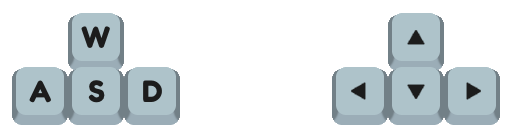
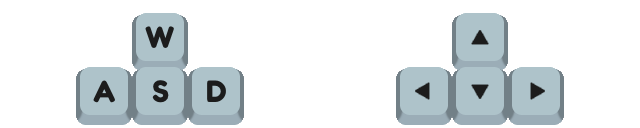
Add instructions scene

diff --git a/src/scenes/instructions/ui.rs b/src/scenes/instructions/ui.rs
@@ -1,0 +1,146 @@
+use bevy::prelude::*;
+
+use crate::{
+    assets::{AssetsHandles, Colors},
+    ui,
+};
+
+use super::CleanupMarker;
+
+pub fn spawn(commands: &mut Commands, assets: &AssetsHandles) {
+    let overlay = ui::Overlay::new();
+
+    let housing_a = ui::Housing::new(Val::Percent(100.0), Val::Percent(10.0));
+    let housing_b = ui::Housing::new(Val::Percent(100.0), Val::Percent(20.0));
+    let housing_c = ui::Housing::new(Val::Percent(100.0), Val::Percent(20.0));
+    let housing_d = ui::Housing::new(Val::Percent(100.0), Val::Percent(20.0));
+    let housing_e = ui::Housing::new(Val::Percent(100.0), Val::Percent(20.0));
+    let housing_f = ui::Housing::new(Val::Percent(100.0), Val::Percent(10.0));
+
+    let how_to_play = ui::EmbossedText::new(
+        "How to Play".to_string(),
+        2.0,
+        TextStyle {
+            font_size: 44.0,
+            color: Colors::PRIMARY,
+            font: assets.fonts.fredoka.clone(),
+        },
+    );
+
+    let press = ui::SimpleText::new(
+        "Press".to_string(),
+        TextStyle {
+            font_size: 44.0,
+            color: Colors::LIGHT,
+            font: assets.fonts.fredoka.clone(),
+        },
+    );
+
+    let or = ui::SimpleText::new(
+        "or".to_string(),
+        TextStyle {
+            font_size: 44.0,
+            color: Colors::LIGHT,
+            font: assets.fonts.fredoka.clone(),
+        },
+    );
+
+    let to_move = ui::SimpleText::new(
+        "to move        ,".to_string(),
+        TextStyle {
+            font_size: 44.0,
+            color: Colors::LIGHT,
+            font: assets.fonts.fredoka.clone(),
+        },
+    );
+
+    let to_win = ui::SimpleText::new(
+        "pushing all         into         to win!".to_string(),
+        TextStyle {
+            font_size: 44.0,
+            color: Colors::LIGHT,
+            font: assets.fonts.fredoka.clone(),
+        },
+    );
+
+    let press_space = ui::EmbossedText::new(
+        "Press [SPACE] to continue".to_string(),
+        2.0,
+        TextStyle {
+            font_size: 24.0,
+            color: Colors::PRIMARY,
+            font: assets.fonts.fredoka.clone(),
+        },
+    );
+
+    assets.images.spawn_background(commands, CleanupMarker);
+
+    overlay.spawn(commands, CleanupMarker, |parent| {
+        housing_a.spawn(parent, |parent| {
+            how_to_play.spawn(parent);
+        });
+        housing_b.spawn(parent, |parent| {
+            press.spawn(parent);
+        });
+        housing_c.spawn(parent, |parent| {
+            parent.spawn_bundle(NodeBundle {
+                style: Style {
+                    position_type: PositionType::Absolute,
+                    size: Size::new(Val::Percent(100.0), Val::Percent(100.0)),
+                    ..Default::default()
+                },
+                image: assets.images.controls.clone().into(),
+                ..Default::default()
+            });
+            or.spawn(parent);
+        });
+        housing_d.spawn(parent, |parent| {
+            parent.spawn_bundle(NodeBundle {
+                style: Style {
+                    position_type: PositionType::Absolute,
+                    position: Rect {
+                        left: Val::Percent(56.0),
+                        ..Default::default()
+                    },
+                    size: Size::new(Val::Px(64.0), Val::Px(64.0)),
+                    ..Default::default()
+                },
+                image: assets.images.player_idle.clone().into(),
+                ..Default::default()
+            });
+            to_move.spawn(parent);
+        });
+        housing_e.spawn(parent, |parent| {
+            parent.spawn_bundle(NodeBundle {
+                style: Style {
+                    position_type: PositionType::Absolute,
+                    position: Rect {
+                        left: Val::Percent(39.0),
+                        ..Default::default()
+                    },
+                    size: Size::new(Val::Px(64.0), Val::Px(64.0)),
+                    ..Default::default()
+                },
+                image: assets.images.entity_box.clone().into(),
+                ..Default::default()
+            });
+            parent.spawn_bundle(NodeBundle {
+                style: Style {
+                    position_type: PositionType::Absolute,
+                    position: Rect {
+                        left: Val::Percent(63.0),
+                        ..Default::default()
+                    },
+                    size: Size::new(Val::Px(64.0), Val::Px(64.0)),
+                    ..Default::default()
+                },
+                image: assets.images.entity_zone.clone().into(),
+                ..Default::default()
+            });
+            to_win.spawn(parent);
+        });
+        housing_f.spawn(parent, |parent| {
+            press_space.spawn(parent);
+        });
+    });
+}

diff --git a/src/scenes/title/mod.rs b/src/scenes/title/mod.rs
@@ -4,7 +4,7 @@ use bevy::prelude::*;
 use bevy_kira_audio::Audio;
 
 use crate::{
-    assets::LoadedHandles,
+    assets::{LoadedHandles, SaveFile},
     state::GameState,
     ui::{ButtonKind, ButtonMarker},
 };
@@ -29,13 +29,18 @@ fn setup(mut commands: Commands, loaded_handles: Res<LoadedHandles>, audio: Res<
 
 fn interactions(
     mut state: ResMut<State<GameState>>,
+    save_file: Res<SaveFile>,
     query: Query<(&ButtonMarker, &Interaction), (Changed<Interaction>, With<Button>)>,
 ) {
     if let Ok((button, interaction)) = query.get_single() {
         match interaction {
             Interaction::Clicked => match button.kind {
                 ButtonKind::Play => {
-                    state.set(GameState::Selection).unwrap();
+                    if save_file.no_records() {
+                        state.set(GameState::Instructions).unwrap();
+                    } else {
+                        state.set(GameState::Selection).unwrap();
+                    }
                 }
                 ButtonKind::Options => { /* TODO: Set state to show options scene */ }
                 ButtonKind::Quit => { /* TODO: Set state to quit game */ }
@@ -49,11 +54,14 @@ fn interactions(
 
 fn cleanup(
     mut commands: Commands,
-    entities: Query<Entity, With<CleanupMarker>>,
     audio: Res<Audio>,
+    save_file: Res<SaveFile>,
+    entities: Query<Entity, With<CleanupMarker>>,
 ) {
     // TODO: Move this somewhere else
-    audio.stop();
+    if !save_file.no_records() {
+        audio.stop();
+    }
 
     for entity in entities.iter() {
         commands.entity(entity).despawn_recursive();

diff --git a/src/scenes/instructions/mod.rs b/src/scenes/instructions/mod.rs
@@ -1,0 +1,42 @@
+mod ui;
+
+use bevy::prelude::*;
+use bevy_kira_audio::Audio;
+
+use crate::{assets::LoadedHandles, state::GameState};
+
+#[derive(Component)]
+struct CleanupMarker;
+
+pub struct InstructionsPlugin;
+
+impl Plugin for InstructionsPlugin {
+    fn build(&self, app: &mut App) {
+        app.add_system_set(SystemSet::on_enter(GameState::Instructions).with_system(setup))
+            .add_system_set(SystemSet::on_update(GameState::Instructions).with_system(interactions))
+            .add_system_set(SystemSet::on_exit(GameState::Instructions).with_system(cleanup));
+    }
+}
+
+fn setup(mut commands: Commands, loaded_handles: Res<LoadedHandles>) {
+    ui::spawn(&mut commands, &loaded_handles.assets);
+}
+
+fn interactions(mut state: ResMut<State<GameState>>, keyboard: Res<Input<KeyCode>>) {
+    if keyboard.just_pressed(KeyCode::Space) {
+        state.set(GameState::Selection).unwrap();
+    }
+}
+
+fn cleanup(
+    mut commands: Commands,
+    entities: Query<Entity, With<CleanupMarker>>,
+    audio: Res<Audio>,
+) {
+    // TODO: Move this somewhere else
+    audio.stop();
+
+    for entity in entities.iter() {
+        commands.entity(entity).despawn_recursive();
+    }
+}

diff --git a/src/assets.rs b/src/assets.rs
@@ -17,6 +17,8 @@ use crate::{
     state::GameState,
 };
 
+const FIRST_LEVEL_INDEX: usize = 0;
+
 pub struct LoadedHandles {
     pub assets: AssetsHandles,
     pub save_file: SaveFileHandle,
@@ -79,6 +81,14 @@ pub struct SaveFile {
 impl SaveFile {
     pub fn new(level_records: Vec<usize>) -> SaveFile {
         SaveFile { level_records }
+    }
+
+    pub fn no_records(&self) -> bool {
+        if self.get_record(FIRST_LEVEL_INDEX) == 0 {
+            true
+        } else {
+            false
+        }
     }
 
     fn set_record(&mut self, level: usize, moves: usize) {

diff --git a/src/scenes/mod.rs b/src/scenes/mod.rs
@@ -1,3 +1,4 @@
+mod instructions;
 mod level;
 mod loading;
 mod selection;
@@ -12,6 +13,7 @@ impl Plugin for ScenesPlugin {
     fn build(&self, app: &mut App) {
         app.add_plugin(loading::LoadingPlugin)
             .add_plugin(title::TitlePlugin)
+            .add_plugin(instructions::InstructionsPlugin)
             .add_plugin(selection::SelectionPlugin)
             .add_plugin(level::LevelPlugin)
             .add_plugin(win::WinPlugin);

diff --git a/src/state.rs b/src/state.rs
@@ -3,6 +3,7 @@ pub enum GameState {
     Startup,
     Loading,
     Title,
+    Instructions,
     Selection,
     Level,
     Win,
